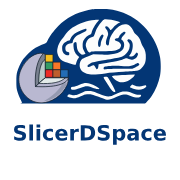
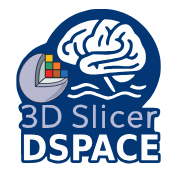
Refine manuscript artwork and update model repository links [skip ci]

Changed region(s): [[0.0556, 0.5556, 0.9444, 0.9167]]

diff --git a/Testing/Python/test_model_assets.py b/Testing/Python/test_model_assets.py
@@ -78,9 +78,17 @@ class ModelAssetsTest(unittest.TestCase):
         self.assertEqual(manifest["default_asset_source_ids"][0], "slicerdsurfer_models_git")
         self.assertEqual(sources["slicerdsurfer_models_git"]["status"], "active")
         self.assertIn(
-            "https://github.com/ChengjinLii/SlicerDDSurfer-models/raw/main",
+            "https://github.com/ChengjinLii/SlicerDSpace-models/raw/main",
             sources["slicerdsurfer_models_git"]["url_template"],
         )
+
+    def test_external_resource_mirror_uses_new_repository_and_retains_pinned_revision(self) -> None:
+        manifest = json.loads((REPO_ROOT / 'models/external_assets_manifest.json').read_text(encoding='utf-8'))
+        source = manifest['asset_sources']['optional_models_mirror']
+        self.assertEqual(source['url_template'],
+                         'https://github.com/ChengjinLii/SlicerDSpace-models/raw/'
+                         '11167a58aaced67a69b3e0bc45656aea2abc1c8d/{path_urlencoded}')
+        self.assertEqual(source['status'], 'active')
 
     def test_quick_gate_alias_resolves_to_core_profile(self) -> None:
         module = _load_downloader_module()

diff --git a/scripts/prepare_model_asset_upload.py b/scripts/prepare_model_asset_upload.py
@@ -67,7 +67,7 @@ def build_parser() -> argparse.ArgumentParser:
     parser.add_argument("--mirror-dir", type=Path, required=True, help="Exported asset mirror directory or asset_mirror_manifest.json.")
     parser.add_argument("--target", choices=("github-release", "huggingface", "zenodo"), default="github-release")
     parser.add_argument("--release-tag", default="v0.1.0")
-    parser.add_argument("--repository", default="ChengjinLii/SlicerDDSurfer-models")
+    parser.add_argument("--repository", default="ChengjinLii/SlicerDSpace-models")
     parser.add_argument("--hf-repo", default="ChengjinLii/SlicerDDSurfer-models")
     parser.add_argument("--zenodo-record", default="REPLACE_WITH_RECORD_ID")
     return parser

diff --git a/scripts/export_model_asset_mirror.py b/scripts/export_model_asset_mirror.py
@@ -115,7 +115,7 @@ def build_parser() -> argparse.ArgumentParser:
     parser = argparse.ArgumentParser(
         description=(
             "Export verified SlicerDSpace model assets into a directory that can be uploaded "
-            "to SlicerDDSurfer-models, Hugging Face, Zenodo, OSF, Figshare, or object storage."
+            "to SlicerDSpace-models, Hugging Face, Zenodo, OSF, Figshare, or object storage."
         )
     )
     parser.add_argument("--profile", "-p", default="core", help="Asset profile to export. Defaults to core.")

diff --git a/Testing/Python/test_prepare_model_asset_upload.py b/Testing/Python/test_prepare_model_asset_upload.py
@@ -55,6 +55,11 @@ def _write_mirror(root: Path) -> None:
 
 
 class PrepareModelAssetUploadTest(unittest.TestCase):
+    def test_default_github_target_uses_renamed_model_repository(self) -> None:
+        module = _load_module()
+        args = module.build_parser().parse_args(['--mirror-dir', '/tmp/example-mirror'])
+        self.assertEqual(args.repository, 'ChengjinLii/SlicerDSpace-models')
+
     def test_github_release_plan_validates_mirror_and_lists_files(self) -> None:
         module = _load_module()
 

diff --git a/Testing/Python/test_export_model_asset_mirror.py b/Testing/Python/test_export_model_asset_mirror.py
@@ -42,7 +42,7 @@ def _write_unit_manifest(path: Path, *, sha256: str, size_bytes: int) -> None:
             "unit_mirror": {
                 "kind": "url-template",
                 "status": "active",
-                "base_url": "https://example.invalid/SlicerDDSurfer-models/v0.1.0",
+                "base_url": "https://example.invalid/SlicerDSpace-models/v0.1.0",
             }
         },
         "profiles": {

diff --git a/docs/assets/MODEL_ASSETS.md b/docs/assets/MODEL_ASSETS.md
@@ -8,7 +8,7 @@
 
 SlicerDSpace keeps the code repository lightweight by storing large
 model/template files outside the main source tree. The preferred external
-source is the independent `SlicerDDSurfer-models` repository. The manifest and
+source is the independent [SlicerDSpace-models](https://github.com/ChengjinLii/SlicerDSpace-models) repository. The manifest and
 downloader verify every asset by size and SHA256 checksum before use.
 
 Users do not need to clone model files with the code repository. A code-only
@@ -121,8 +121,9 @@ python3 scripts/download_model_assets.py \
 ```
 
 The `slicerdsurfer_models_git` source resolves files from
-`https://github.com/ChengjinLii/SlicerDDSurfer-models/raw/main/{path}` after
-that repository has been published. For an ad-hoc mirror, use `--base-url`;
+`https://github.com/ChengjinLii/SlicerDSpace-models/raw/main/{path}`.
+Existing configured asset directories and verified downloads remain reusable.
+For an ad-hoc mirror, use `--base-url`;
 the downloader appends each relative asset path to that URL and verifies every
 download against the manifest size and SHA256.
 
@@ -132,12 +133,12 @@ verified locally:
 ```bash
 python3 scripts/export_model_asset_mirror.py \
   --profile core \
-  --output-dir /tmp/SlicerDDSurfer-models-v0.1.0
+  --output-dir /tmp/SlicerDSpace-models-v0.1.0
 ```
 
 The exporter verifies size and SHA256 first, then writes the files using the
 same repository-relative paths plus `asset_mirror_manifest.json` and
-`asset_mirror_index.tsv`. Upload that directory to `SlicerDDSurfer-models`,
+`asset_mirror_index.tsv`. Upload that directory to `SlicerDSpace-models`,
 Hugging Face, Zenodo, OSF, Figshare, or institutional object storage. Use
 `--dry-run` to inspect the export plan without writing files, or `--mode
 hardlink` for local staging when the target filesystem supports hard links.
@@ -274,7 +275,7 @@ URL-template sources may use these placeholders:
 For a public release, keep this code repository lightweight and publish large
 weights/templates through a governed asset source:
 
-1. Create `ChengjinLii/SlicerDDSurfer-models` or an equivalent
+1. Use `ChengjinLii/SlicerDSpace-models` or an equivalent
    Hugging Face/Zenodo/OSF record.
 2. Preserve the same relative paths as `asset_records`.
 3. Upload only files whose redistribution and archive permissions are confirmed.

diff --git a/docs/assets/EXTERNAL_RESOURCES.md b/docs/assets/EXTERNAL_RESOURCES.md
@@ -10,8 +10,10 @@
 
 ## Scope
 
-The historical `SlicerDDSurfer-models` name now covers weights, templates,
-atlases and required inference references. Raw subject images, analysis outputs,
+The [SlicerDSpace-models](https://github.com/ChengjinLii/SlicerDSpace-models)
+repository covers weights, templates, atlases and required inference references.
+Existing local asset directories remain usable without renaming or redownloading.
+Raw subject images, analysis outputs,
 training/test datasets, Conda/Python environments, CUDA libraries, executables
 and subject-specific fitted dictionaries are not resource-repository contents.
 The default 31-file core profile is unchanged. Optional resources remain opt-in.
@@ -53,7 +55,7 @@ No repository visibility was changed by this work.
 ```bash
 python3 scripts/download_model_assets.py \
   --manifest models/external_assets_manifest.json --profile mirrorable-inference \
-  --asset-root /path/to/SlicerDDSurfer-models --verify-only
+  --asset-root /path/to/SlicerDSpace-models --verify-only
 ```
 
 `scripts/import_external_resources.py` defaults to a plan and requires

diff --git a/docs/assets/MODEL_ASSET_HOSTING_PLAN.md b/docs/assets/MODEL_ASSET_HOSTING_PLAN.md
@@ -16,7 +16,7 @@ asset host after redistribution terms are confirmed.
 ## Target Layout
 
 - Code repository: `ChengjinLii/SlicerDSpace`
-- Asset repository or record: `ChengjinLii/SlicerDDSurfer-models`, Hugging Face,
+- Asset repository or record: `ChengjinLii/SlicerDSpace-models`, Hugging Face,
   Zenodo, OSF, Figshare or institutional object storage
 - Source of truth for paths, sizes and checksums:
   `models/assets_manifest.json`
@@ -53,7 +53,7 @@ defaults while the downloader changes only the source backend.
 python3 scripts/download_model_assets.py --profile core --verify-only
 python3 scripts/export_model_asset_mirror.py \
   --profile core \
-  --output-dir /tmp/SlicerDDSurfer-models-v0.1.0
+  --output-dir /tmp/SlicerDSpace-models-v0.1.0
 ```
 
 7. Upload the generated mirror directory, including `asset_mirror_manifest.json`

diff --git a/docs/setup/CLI_TEMPLATES.md b/docs/setup/CLI_TEMPLATES.md
@@ -36,7 +36,7 @@ export REPO="/path/to/SlicerDSpace"
 export SUBJECT="/path/to/prepared/sub-01"
 export SUBJECT_ID="sub-01"
 export OUTPUTS="/path/to/analysis/sub-01"
-export ASSETS="/path/to/SlicerDDSurfer-models"
+export ASSETS="/path/to/SlicerDSpace-models"
 DEPENDENCY_ARGS=()
 # If needed, export dependency paths from the GUI, then uncomment:
 # DEPENDENCY_ARGS=(--dependency-config "/path/to/dependency_paths.json")
@@ -516,7 +516,7 @@ $Repo = 'C:\work\SlicerDSpace'
 $Subject = 'D:\study\sub-01'
 $SubjectId = 'sub-01'
 $Outputs = 'D:\analysis\sub-01'
-$Assets = 'D:\SlicerDDSurfer-models'
+$Assets = 'D:\SlicerDSpace-models'
 $DependencyArgs = @()
 # $DependencyArgs = @('--dependency-config', 'D:\configs\dependencies.json')
 

diff --git a/docs/setup/CLI_TEMPLATES.zh-CN.md b/docs/setup/CLI_TEMPLATES.zh-CN.md
@@ -35,7 +35,7 @@ export REPO="/path/to/SlicerDSpace"
 export SUBJECT="/path/to/prepared/sub-01"
 export SUBJECT_ID="sub-01"
 export OUTPUTS="/path/to/analysis/sub-01"
-export ASSETS="/path/to/SlicerDDSurfer-models"
+export ASSETS="/path/to/SlicerDSpace-models"
 DEPENDENCY_ARGS=()
 # If needed, export dependency paths from the GUI, then uncomment:
 # DEPENDENCY_ARGS=(--dependency-config "/path/to/dependency_paths.json")
@@ -484,7 +484,7 @@ $Repo = 'C:\work\SlicerDSpace'
 $Subject = 'D:\study\sub-01'
 $SubjectId = 'sub-01'
 $Outputs = 'D:\analysis\sub-01'
-$Assets = 'D:\SlicerDDSurfer-models'
+$Assets = 'D:\SlicerDSpace-models'
 $DependencyArgs = @()
 # $DependencyArgs = @('--dependency-config', 'D:\configs\dependencies.json')
 

diff --git a/README.zh-CN.md b/README.zh-CN.md
@@ -149,7 +149,7 @@ Slicer 5.10 用户在 **Edit > Application Settings > Modules > Additional modul
 确认所需工具和模型条款；如提示重启，重启后再点击准备以继续。
 SlicerDMRI、PyTorch 及可选的 UKFTractography 扩展按路线准备。
 
-权重、模板和图谱单独存放于 **SlicerDDSurfer-models**。配置过程校验 SHA256、
+权重、模板和图谱单独存放于 [**SlicerDSpace-models**](https://github.com/ChengjinLii/SlicerDSpace-models)。配置过程校验 SHA256、
 缓存下载并保存路径；**更多选项** 提供已有环境、离线模型和修复入口。
 详见[自动配置](docs/setup/MANAGED_SETUP.zh-CN.md)与[资源条款](docs/assets/MODEL_ASSET_TERMS.md)。
 
